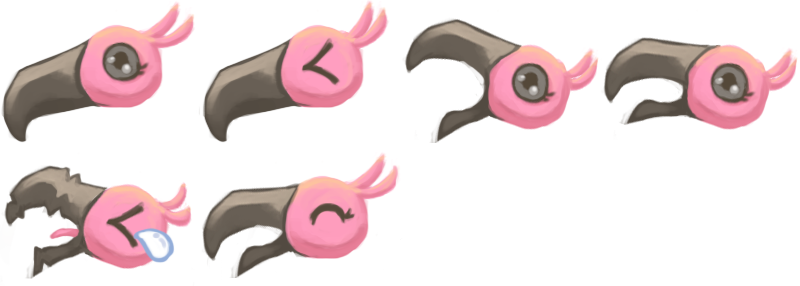
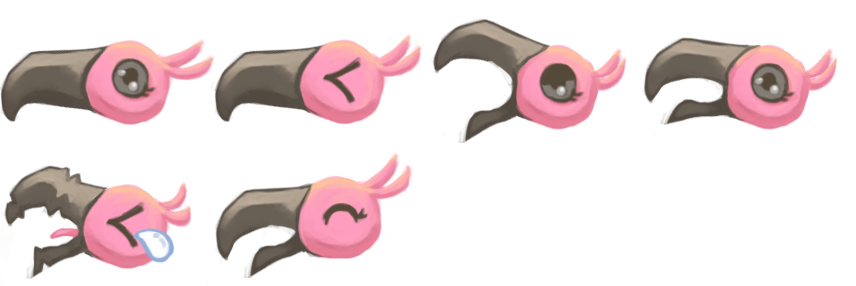
water opacity fixed, head graphics fixed

Changed region(s): [[0.0, 0.0, 0.5312, 0.5035], [0.0, 0.5315, 0.5, 0.979], [0.5312, 0.0559, 1.0, 0.5035]]

diff --git a/Flamingo/Flamingo/Source/flamingo.cpp b/Flamingo/Flamingo/Source/flamingo.cpp
@@ -41,7 +41,7 @@ flamingo::flamingo(soundLibrary* SoundLibrary, collision* Collide, input* Input)
 	m_flamingoHead.setScale(0.5f, 0.5f);
 	m_flamingoHead.setLayer(291);
 
-	m_headAnimation = new animation(&m_flamingoHead, 6, 200, 143, false);
+	m_headAnimation = new animation(&m_flamingoHead, 6, 214, 143, false);
 	m_headAnimation->ChangeAnimation(0, 1, 0, 20);
 
 	m_crossTexture = new texture("crosshair.png");	
